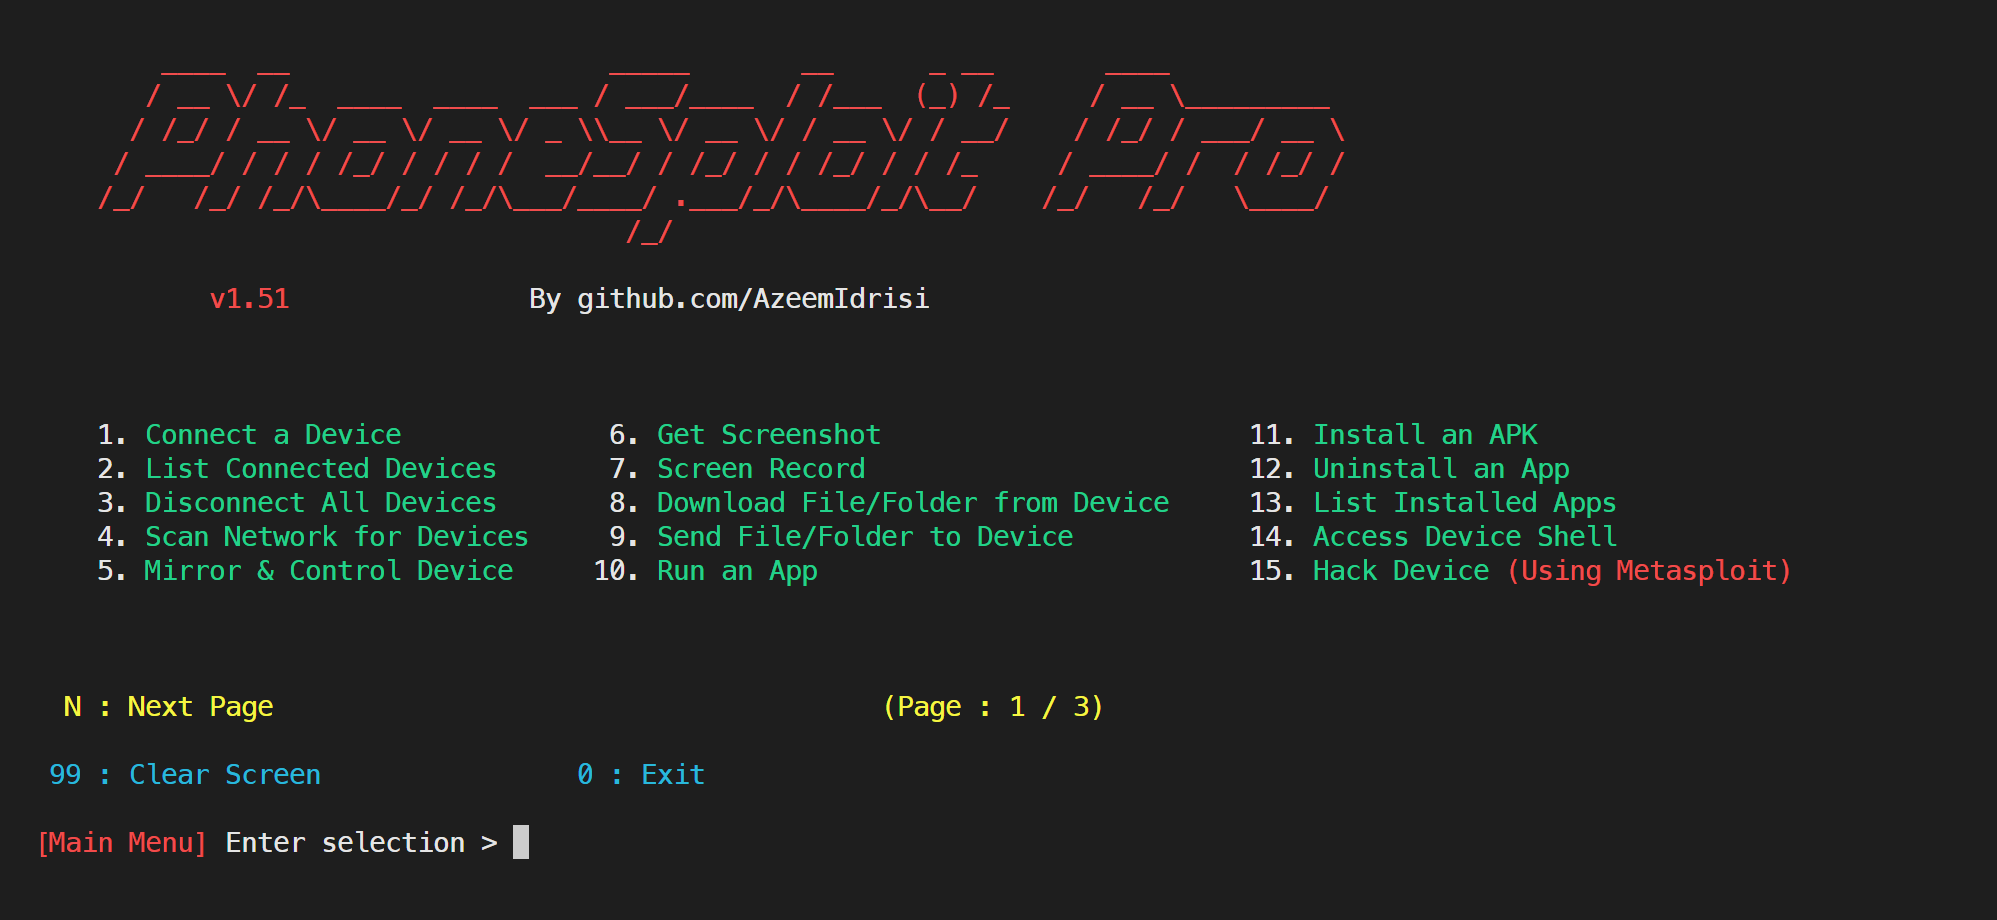
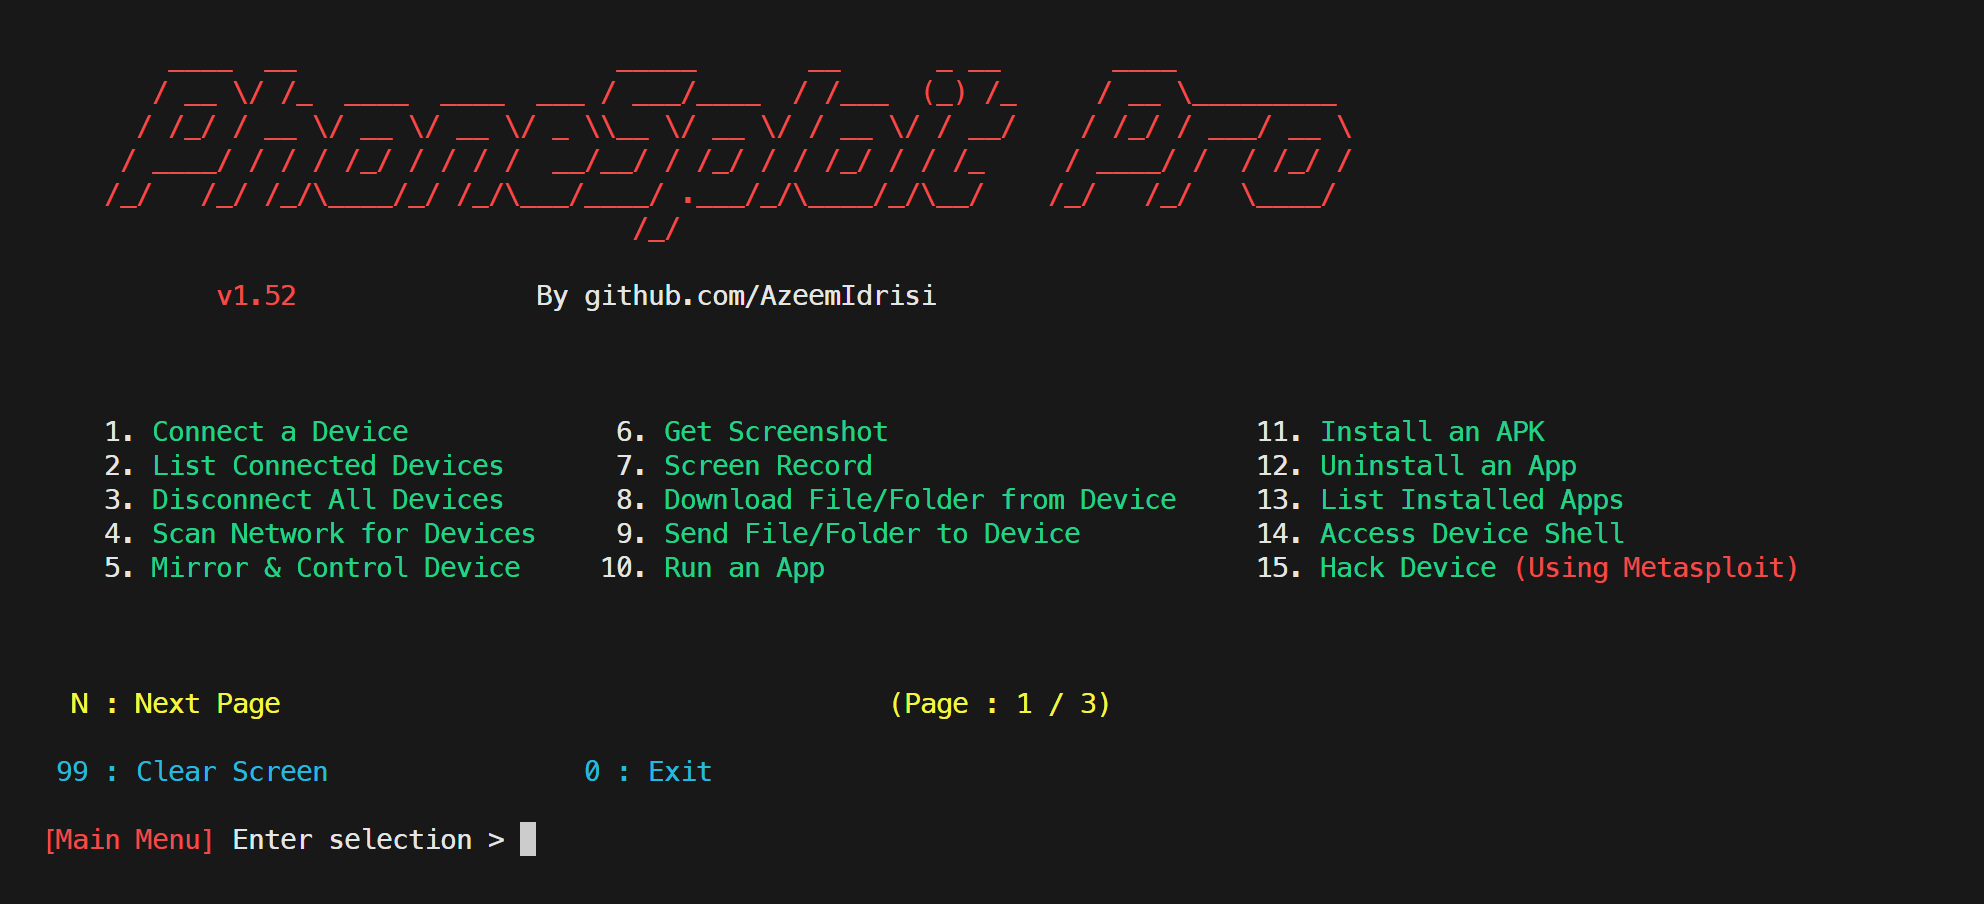
v1.52

diff --git a/modules/banner.py b/modules/banner.py
@@ -5,9 +5,9 @@ Author : Mohd Azeem (github.com/AzeemIdrisi)
 
 from modules import color
 
-version = 'v1.51'
+version = "v1.52"
 
-menu1 = f'''
+menu1 = f"""
 
     {color.WHITE}1. {color.GREEN}Connect a Device             {color.WHITE}6. {color.GREEN}Get Screenshot                       {color.WHITE}11. {color.GREEN}Install an APK  
     {color.WHITE}2. {color.GREEN}List Connected Devices       {color.WHITE}7. {color.GREEN}Screen Record                        {color.WHITE}12. {color.GREEN}Uninstall an App
@@ -17,9 +17,9 @@ menu1 = f'''
 
 
    {color.YELLOW} 
-  N : Next Page                                      (Page : 1 / 3)'''
+  N : Next Page                                      (Page : 1 / 3)"""
 
-menu2 = f'''
+menu2 = f"""
 
     {color.WHITE}16. {color.GREEN}List All Folders/Files      {color.WHITE}21. {color.GREEN}Anonymous Screenshot                {color.WHITE}26. {color.GREEN}Play a Video on Device
     {color.WHITE}17. {color.GREEN}Send SMS                    {color.WHITE}22. {color.GREEN}Anonymous Screen Record             {color.WHITE}27. {color.GREEN}Get Device Information
@@ -29,9 +29,9 @@ menu2 = f'''
 
 
    {color.YELLOW} 
-  P : Previous Page         N : Next Page            (Page : 2 / 3)'''
+  P : Previous Page         N : Next Page            (Page : 2 / 3)"""
 
-menu3 = f'''
+menu3 = f"""
 
     {color.WHITE}31. {color.GREEN}Unlock Device               {color.WHITE}36. {color.GREEN}Extract APK from Installed App      {color.WHITE}41. {color.GREEN}Visit PhoneSploit-Pro on GitHub
     {color.WHITE}32. {color.GREEN}Lock Device                 {color.WHITE}37. {color.GREEN}Stop ADB Server                     {color.WHITE}    {color.GREEN}
@@ -41,11 +41,11 @@ menu3 = f'''
 
 
    {color.YELLOW} 
-  P : Previous Page                                  (Page : 3 / 3)'''
+  P : Previous Page                                  (Page : 3 / 3)"""
 
 menu = [menu1, menu2, menu3]
 
-instruction = f'''
+instruction = f"""
 
 This attack will launch Metasploit-Framework    (msfconsole)
 
@@ -66,9 +66,9 @@ Use 'Ctrl + C' to stop at any point
     {color.GREEN}msf6 > {color.YELLOW}exit -y       {color.WHITE}
      
 {color.RED}[PhoneSploit Pro]   {color.WHITE}Press 'Enter' to continue attack / '0' to Go Back to Main Menu
-    '''
+    """
 
-banner2 = f'''
+banner2 = f"""
 
         ░█▀▀█ █──█ █▀▀█ █▀▀▄ █▀▀ ░█▀▀▀█ █▀▀█ █── █▀▀█ ─▀─ ▀▀█▀▀ 　 ░█▀▀█ █▀▀█ █▀▀█ 
         ░█▄▄█ █▀▀█ █──█ █──█ █▀▀ ─▀▀▀▄▄ █──█ █── █──█ ▀█▀ ──█── 　 ░█▄▄█ █▄▄▀ █──█ 
@@ -76,18 +76,18 @@ banner2 = f'''
 
 
             {color.RED}{version}{color.WHITE}            {color.WHITE}By github.com/AzeemIdrisi
-'''
+"""
 
-banner3 = f'''
+banner3 = f"""
 
         █▀█ █░█ █▀█ █▄░█ █▀▀ █▀ █▀█ █░░ █▀█ █ ▀█▀   █▀█ █▀█ █▀█
         █▀▀ █▀█ █▄█ █░▀█ ██▄ ▄█ █▀▀ █▄▄ █▄█ █ ░█░   █▀▀ █▀▄ █▄█ 
 
 
             {color.RED}{version}{color.WHITE}             {color.WHITE}By github.com/AzeemIdrisi
-'''
+"""
 
-banner4 = f'''
+banner4 = f"""
     _________.__                           _________      .__         .__  __    __________                 
     \______  \\  |__   ____   ____   ____  /   _____/_____ |  |   ____ |__|/  |_  \______   \_______  ____   
     |     ___/  |  \ /  _ \ /    \_/ __ \ \_____  \\\____ \|  |  /  _ \|  \   __\  |     ___/\_  __ \/  _ \  
@@ -97,8 +97,8 @@ banner4 = f'''
 
 
         {color.RED}{version}{color.WHITE}                             {color.WHITE}By github.com/AzeemIdrisi
-'''
-banner5 = f'''
+"""
+banner5 = f"""
        ___  __                 ____     __     _ __     ___         
       / _ \/ /  ___  ___  ___ / __/__  / /__  (_) /_   / _ \_______ 
      / ___/ _ \/ _ \/ _ \/ -_)\ \/ _ \/ / _ \/ / __/  / ___/ __/ _ \\
@@ -106,9 +106,9 @@ banner5 = f'''
                                /_/                                                                                                      
 
         {color.RED}{version}{color.WHITE}        {color.WHITE}By github.com/AzeemIdrisi
-'''
+"""
 
-banner6 = f'''
+banner6 = f"""
         ____  __                    _____       __      _ __       ____           
        / __ \/ /_  ____  ____  ___ / ___/____  / /___  (_) /_     / __ \_________ 
       / /_/ / __ \/ __ \/ __ \/ _ \\\__ \/ __ \/ / __ \/ / __/    / /_/ / ___/ __ \\
@@ -118,9 +118,9 @@ banner6 = f'''
     
            {color.RED}{version}{color.WHITE}               {color.WHITE}By github.com/AzeemIdrisi
 
-'''
+"""
 
-banner10 = f'''
+banner10 = f"""
      ____    __                              ____            ___               __        ____                        
     /\  _`\ /\ \                            /\  _`\         /\_ \           __/\ \__    /\  _`\                      
     \ \ \L\ \ \ \___     ___     ___      __\ \,\L\_\  _____\//\ \     ___ /\_\ \ ,_\   \ \ \L\ \_ __   ___          
@@ -133,9 +133,9 @@ banner10 = f'''
 
             {color.RED}{version}{color.WHITE}                                {color.WHITE}By github.com/AzeemIdrisi
 
-'''
+"""
 
-banner11 = f'''
+banner11 = f"""
     _____________                   ________       ______     __________       ________              
     ___  __ \__  /_____________________  ___/__________  /________(_)_  /_      ___  __ \____________ 
     __  /_/ /_  __ \  __ \_  __ \  _ \____ \___  __ \_  /_  __ \_  /_  __/      __  /_/ /_  ___/  __ \\
@@ -146,9 +146,9 @@ banner11 = f'''
 
             {color.RED}{version}{color.WHITE}                            {color.WHITE}By github.com/AzeemIdrisi
 
-'''
+"""
 
-banner12 = f'''
+banner12 = f"""
 
         ▒█▀▀█ █░░█ █▀▀█ █▀▀▄ █▀▀ ▒█▀▀▀█ █▀▀█ █░░ █▀▀█ ░▀░ ▀▀█▀▀ 　 ▒█▀▀█ █▀▀█ █▀▀█ 
         ▒█▄▄█ █▀▀█ █░░█ █░░█ █▀▀ ░▀▀▀▄▄ █░░█ █░░ █░░█ ▀█▀ ░░█░░ 　 ▒█▄▄█ █▄▄▀ █░░█ 
@@ -157,27 +157,35 @@ banner12 = f'''
 
             {color.RED}{version}{color.WHITE}                            {color.WHITE}By github.com/AzeemIdrisi
 
-'''
-banner_list = [banner2, banner3, banner4, banner5,
-               banner6, banner10, banner11, banner12]
+"""
+banner_list = [
+    banner2,
+    banner3,
+    banner4,
+    banner5,
+    banner6,
+    banner10,
+    banner11,
+    banner12,
+]
 
-instructions_banner = f'''{color.CYAN}
+instructions_banner = f"""{color.CYAN}
         ____           __                  __  _                 
        /  _/___  _____/ /________  _______/ /_(_)___  ____  _____
        / // __ \/ ___/ __/ ___/ / / / ___/ __/ / __ \/ __ \/ ___/
      _/ // / / (__  ) /_/ /  / /_/ / /__/ /_/ / /_/ / / / (__  ) 
     /___/_/ /_/____/\__/_/   \__,_/\___/\__/_/\____/_/ /_/____/  
         {color.WHITE}                                                        
-'''
+"""
 
-hacking_banner = f'''{color.GREEN}
+hacking_banner = f"""{color.GREEN}
     
     █░█ ▄▀█ █▀▀ █▄▀ █ █▄░█ █▀▀ ░ ░ ░
     █▀█ █▀█ █▄▄ █░█ █ █░▀█ █▄█ ▄ ▄ ▄
     {color.WHITE}
-'''
+"""
 
-keycode_menu = f'''
+keycode_menu = f"""
     {color.WHITE}1. {color.GREEN}Keyboard Text Input                {color.WHITE}11. {color.GREEN}Enter
     {color.WHITE}2. {color.GREEN}Home                               {color.WHITE}12. {color.GREEN}Volume Up
     {color.WHITE}3. {color.GREEN}Back                               {color.WHITE}13. {color.GREEN}Volume Down          
@@ -188,4 +196,4 @@ keycode_menu = f'''
     {color.WHITE}8. {color.GREEN}DPAD Left           
     {color.WHITE}9. {color.GREEN}DPAD Right
    {color.WHITE}10. {color.GREEN}Delete/Backspace
-'''
+"""

diff --git a/modules/release.py b/modules/release.py
@@ -11,34 +11,34 @@ def exit_phonesploit_pro():
 
 
 def display_menu():
-    """ Displays banner and menu"""
+    """Displays banner and menu"""
     print(selected_banner, page)
 
 
 def clear_screen():
-    """ Clears the screen and display menu """
+    """Clears the screen and display menu"""
     os.system(clear)
     display_menu()
 
 
 def start():
     operating_system = platform.system()
-    if operating_system == 'Windows':
+    if operating_system == "Windows":
         # Windows specific configuration
         windows_config()
 
 
 def windows_config():
     global clear
-    clear = 'cls'
+    clear = "cls"
 
 
 def change_page(name):
     global page, page_number, selected_banner
-    if name == 'p':
+    if name == "p":
         if page_number > 0:
             page_number = page_number - 1
-    elif name == 'n':
+    elif name == "n":
         if page_number < 2:
             page_number = page_number + 1
     if page_number == 0:
@@ -55,20 +55,19 @@ def main():
     # Clearing the screen and presenting the menu
     # taking selection input from user
     print(f"\n {color.CYAN}99 : Clear Screen                0 : Exit")
-    option = input(
-        f"\n{color.RED}[Main Menu] {color.WHITE}Enter selection > ").lower()
+    option = input(f"\n{color.RED}[Main Menu] {color.WHITE}Enter selection > ").lower()
     match option:
-        case 'p':
-            change_page('p')
-        case 'n':
-            change_page('n')
-        case '0':
+        case "p":
+            change_page("p")
+        case "n":
+            change_page("n")
+        case "0":
             exit_phonesploit_pro()
-        case '99':
+        case "99":
             clear_screen()
 
 
-clear = 'clear'
+clear = "clear"
 page_number = 0
 page = banner.menu[page_number]
 

diff --git a/modules/color.py b/modules/color.py
@@ -1,16 +1,16 @@
-'''
+"""
 Script : PhoneSploit Pro
 Author : Mohd Azeem (github.com/AzeemIdrisi)
-'''
+"""
 
-RED = '\033[91m'
-GREEN = '\033[92m'
+RED = "\033[91m"
+GREEN = "\033[92m"
 # ORANGE = '\033[33m'
-YELLOW = '\033[93m'
+YELLOW = "\033[93m"
 # BLUE = '\033[94m'
-PURPLE = '\033[95m'
-CYAN = '\033[96m'
-WHITE = '\033[97m'
+PURPLE = "\033[95m"
+CYAN = "\033[96m"
+WHITE = "\033[97m"
 
 
 color_list = [RED, GREEN, YELLOW, PURPLE, CYAN, WHITE]
